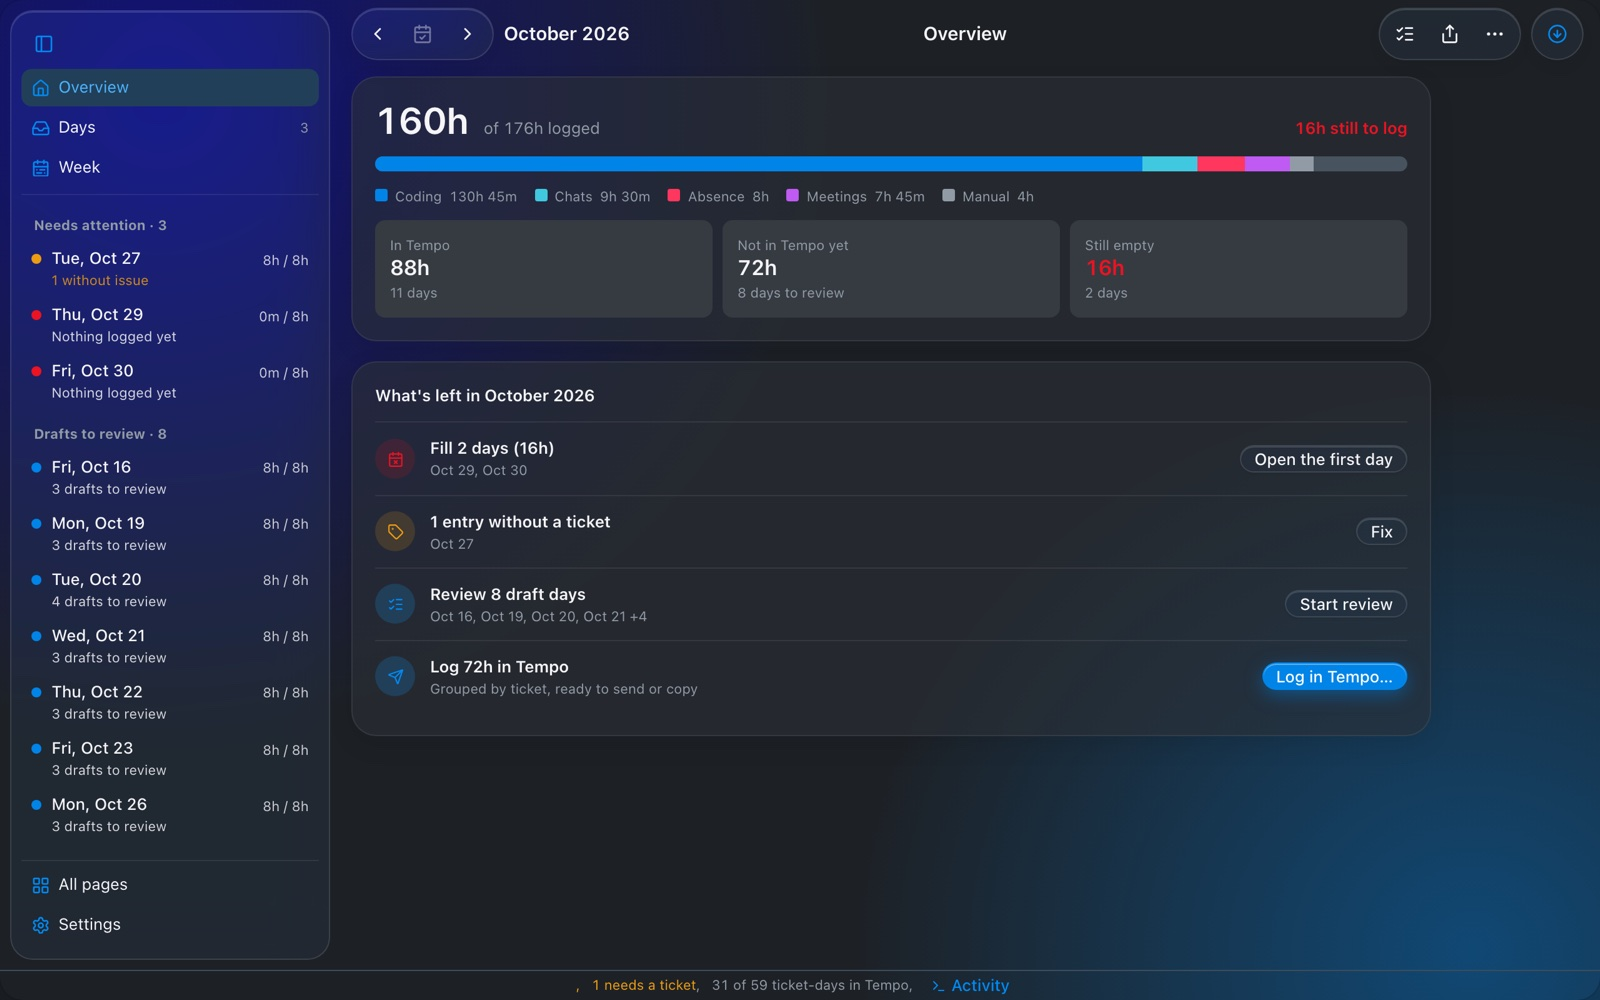
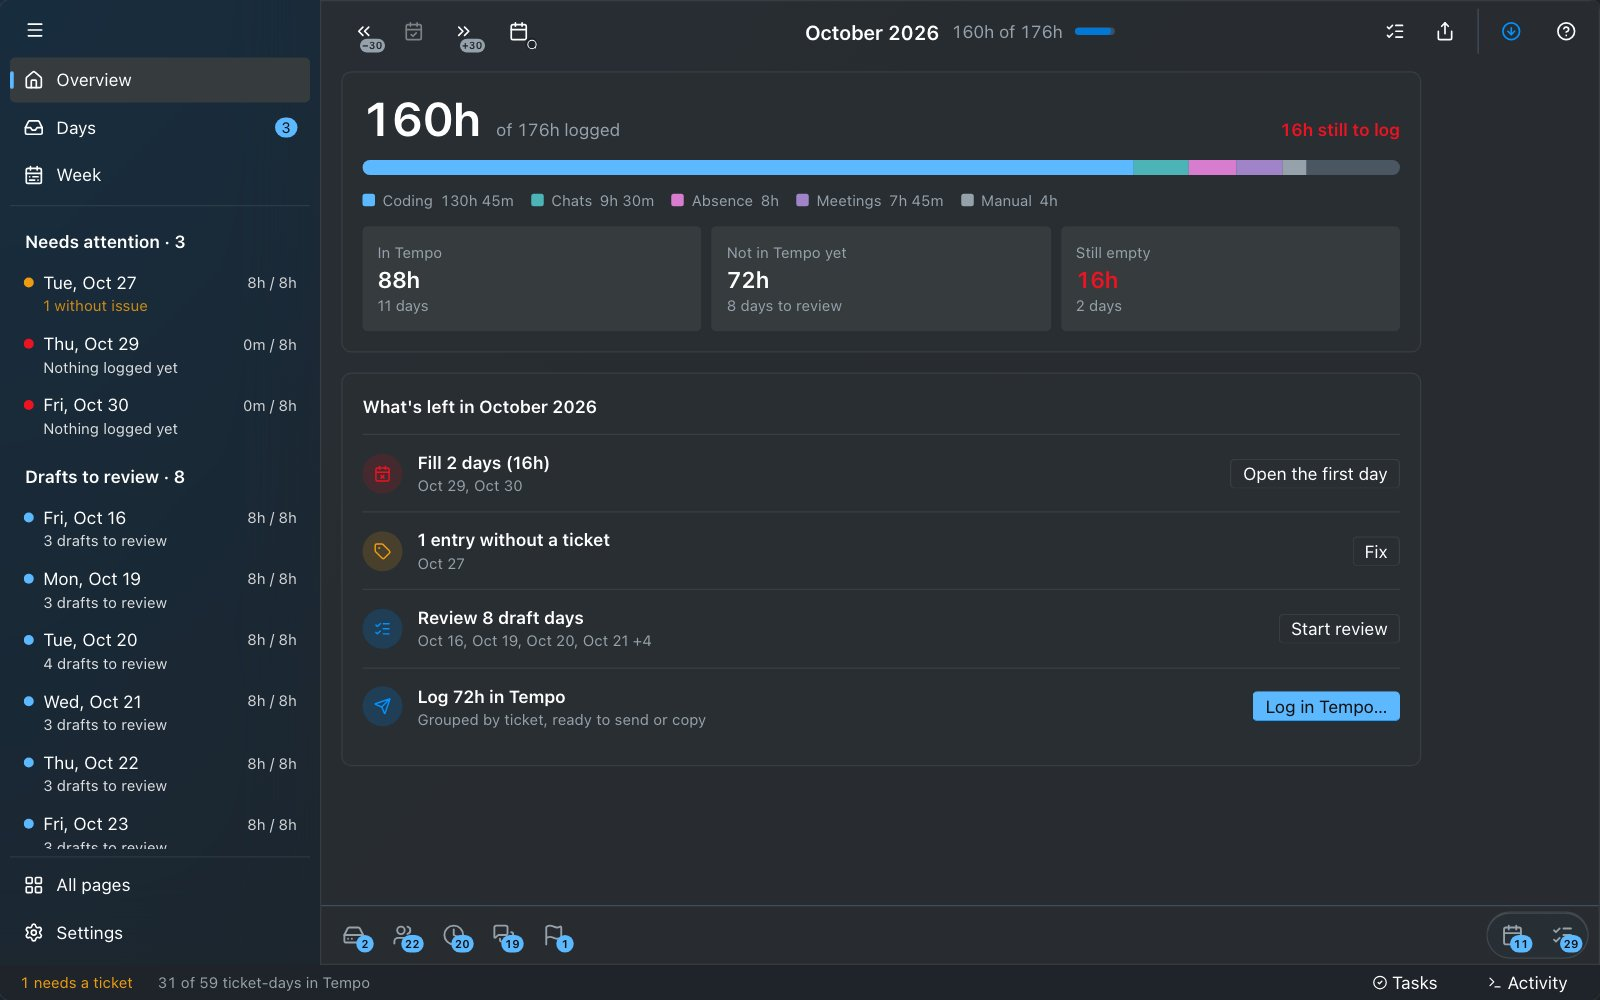
Retake the screenshots from the sample month with task screenshots
- frontend/scripts/screenshots.mjs serves the built frontend in headless Chromium, where the FakeApi answers
  with the invented sample month, and saves the page's six shots to site/img
- task screenshots builds the frontend, installs Playwright's Chromium and runs it
- In a plain browser the app starts in the browser's light or dark scheme, so the dark shot is dark

diff --git a/frontend/src/app/app.config.ts b/frontend/src/app/app.config.ts
@@ -28,8 +28,13 @@ const providers = (api: Api): ApplicationConfig['providers'] => [
   provideRouter(routes, withComponentInputBinding(), withHashLocation()),
   provideSpartanHlm(),
   // Reads the OS before the first render; the remembered Settings → General look wins over it.
-  provideSpartanNative({ host: inWails ? wailsHost() : staticHost(), overrides: rememberedLook() }),
+  provideSpartanNative({ host: inWails ? wailsHost() : browserHost(), overrides: rememberedLook() }),
   { provide: API, useValue: api },
   // The remembered Settings → General language, else the OS's; the settings set it again once they load.
   { provide: I18N_LANG, useValue: rememberedLang() },
 ];
+
+/** A plain browser starts in its own light or dark scheme (the screenshots take the dark one this way). */
+function browserHost() {
+  return staticHost({ scheme: matchMedia('(prefers-color-scheme: dark)').matches ? 'dark' : 'light' });
+}
